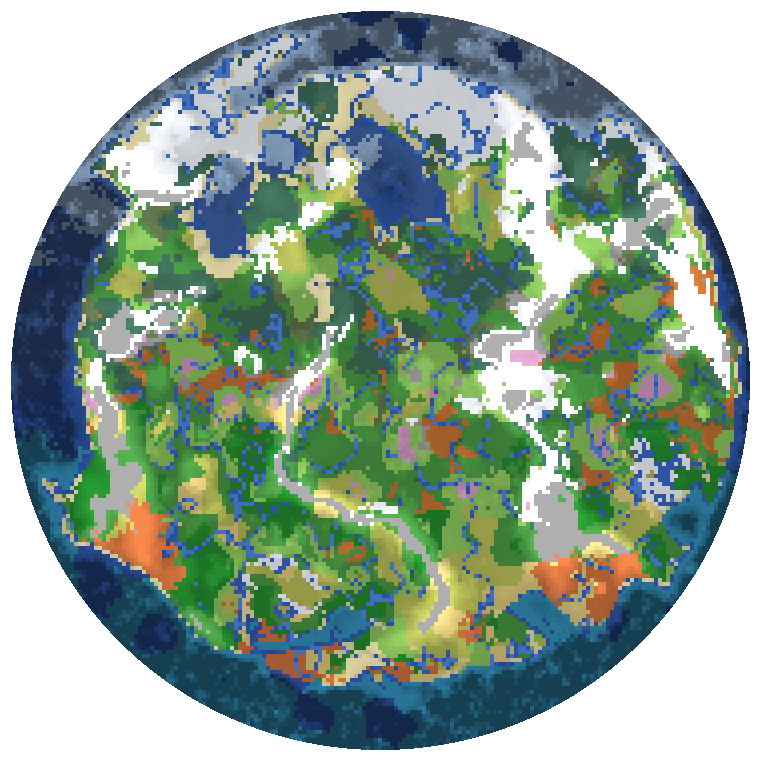
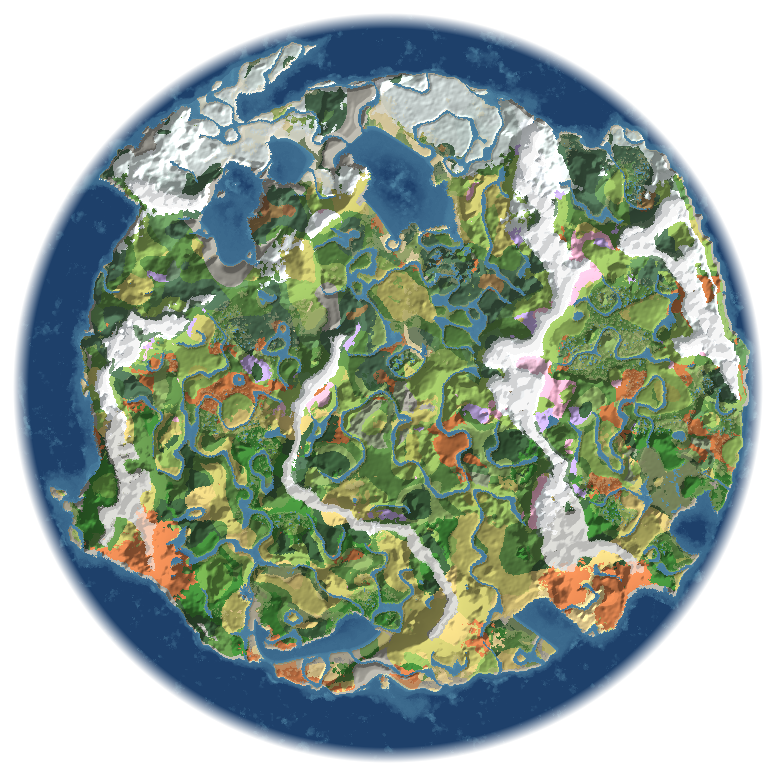
feat(site): render the disc map from a bench height and biome sample

diff --git a/site/src/components/Medias.tsx b/site/src/components/Medias.tsx
@@ -1,7 +1,7 @@
 import { useRef, useState } from 'react'
 import { AnimatePresence, motion } from 'motion/react'
 import type { Media, Zoom } from '../data/lieux'
-import { CARTE_SRC, lireCarte } from './Carte'
+import { CARTE_SRC, R_RIVAGE, lireCarte } from './Carte'
 
 const LOUPE = 2.6 // magnification of the lens
 const LENTILLE = 200 // lens size in CSS pixels, kept in step with .lentille
@@ -230,7 +230,7 @@ function CarteMesure() {
       <div className="carte-mesure" onPointerMove={bouger} onPointerDown={bouger}>
         <img src={CARTE_SRC} alt="Carte des biomes du disque" draggable={false} />
         <svg viewBox="0 0 100 100" aria-hidden="true">
-          <circle cx="50" cy="50" r={(355 / 760) * 100} fill="none" stroke="var(--lanterne)" strokeWidth="0.3" strokeDasharray="1 1" />
+          <circle cx="50" cy="50" r={R_RIVAGE * 100} fill="none" stroke="var(--lanterne)" strokeWidth="0.3" strokeDasharray="1 1" />
           {l && <line x1="50" y1="50" x2={l.fx * 100} y2={l.fy * 100} stroke="var(--lanterne)" strokeWidth="0.5" />}
           <circle cx="50" cy="50" r="0.8" fill="var(--lanterne)" />
         </svg>

diff --git a/site/src/components/Carte.tsx b/site/src/components/Carte.tsx
@@ -5,7 +5,9 @@ import { Brume } from './Brume'
 import { Pixel } from './Pixel'
 
 const BORD = 6000 // blocks from the centre to the edge
-const R_IMG = 374 / 760 // edge radius as a fraction of the map image
+// The map image spans -6200..6200 blocks at one pixel per 16 blocks (775 px).
+export const R_IMG = 6000 / 12400 // edge radius as a fraction of the map image
+export const R_RIVAGE = 5700 / 12400 // open sea starts here
 
 export const CARTE_SRC = `${import.meta.env.BASE_URL}captures/carte-disque.png`
 
@@ -54,7 +56,7 @@ export function Carte({ intro, actif, onChoisir, reduit }: Props) {
       b.disc = {
         x: ((r.left - s.left + r.width / 2) / s.width) * b.cols,
         y: ((r.top - s.top + r.height / 2) / s.height) * b.rows,
-        r: (r.width / 2 / s.width) * b.cols * (369 / 380),
+        r: (r.width / s.width) * b.cols * R_IMG,
       }
       b.holes = LIEUX.map((l) => ({
         x: ((r.left - s.left + l.x * r.width) / s.width) * b.cols,

diff --git a/site/src/data/lieux.ts b/site/src/data/lieux.ts
@@ -65,7 +65,7 @@ export const LIEUX: Lieu[] = [
     ],
   },
   {
-    id: 'lac', touche: 2, nom: 'Le lac', theme: 'Le rendu', x: 0.52, y: 0.27,
+    id: 'lac', touche: 2, nom: 'Le lac', theme: 'Le rendu', x: 0.51, y: 0.25,
     intro: "Brumaire, un shader écrit de zéro pour Compline et allumé par défaut. Il garde les pixels du jeu nets et donne au monde sa lumière.",
     fond: c('bru-couchant.jpg'),
     fonctions: [

diff --git a/site/scripts/carte.py b/site/scripts/carte.py
@@ -16,31 +16,46 @@ from PIL import Image
 EDGE = 6000  # blocks from the centre to the edge of the world
 SEA = 63
 
+# Exact colours for biomes whose names would mislead the keyword match below.
+EXACTS = {
+    'mangrove_swamp': (78, 104, 64), 'cherry_grove': (214, 160, 182), 'wisteria_grove': (170, 150, 200),
+    'magnolia_woodland': (206, 168, 186), 'frozen_pine_taiga': (196, 208, 204), 'snowy_taiga': (190, 204, 200),
+    'snowy_beach': (226, 228, 222), 'stony_shore': (150, 148, 140), 'rocky_shore': (150, 148, 140),
+    'windswept_hills': (128, 140, 112), 'windswept_gravelly_hills': (144, 142, 134), 'windswept_forest': (84, 118, 76),
+    'tide_pools': (170, 176, 150), 'ant_gardens': (150, 160, 86), 'dripstone_caves': (146, 132, 112),
+    'pine_slopes': (96, 120, 96), 'towering_cliffs': (140, 138, 128), 'dry_bushland': (190, 172, 106),
+    'bamboo_forest': (98, 146, 66), 'willow_forest': (92, 132, 82), 'redwoods': (128, 92, 62),
+    'sparse_redwoods': (138, 112, 72), 'orchard': (150, 156, 80),
+}
+
 # Colours by biome family, matched on words of the biome id, first match wins.
 FAMILLES = [
-    (('frozen_peaks', 'jagged_peaks', 'snowy_slopes', 'ice_spikes', 'frozen', 'glacier', 'icy'), (226, 232, 236)),
-    (('snowy', 'tundra', 'grove', 'alpine'), (206, 216, 214)),
+    (('frozen_peaks', 'jagged_peaks', 'snowy_slopes', 'ice_spikes', 'frozen', 'glacier', 'icy'), (230, 236, 240)),
+    (('snowy', 'tundra', 'alpine', 'grove'), (206, 216, 214)),
     (('stony_peaks', 'stony', 'rocky', 'cliff', 'mountain', 'peak', 'crag', 'slope'), (146, 146, 138)),
-    (('badlands', 'mesa', 'red_rock', 'outback'), (196, 116, 70)),
+    (('badlands', 'mesa', 'red_rock', 'outback'), (188, 112, 68)),
     (('desert', 'dune', 'sand', 'arid', 'dry'), (222, 199, 140)),
-    (('savanna', 'steppe', 'shrub', 'prairie', 'grassland', 'scrub'), (176, 170, 96)),
-    (('swamp', 'marsh', 'bog', 'fen', 'mangrove', 'bayou', 'wetland'), (92, 112, 74)),
-    (('jungle', 'rainforest', 'tropic'), (64, 128, 52)),
-    (('cherry', 'blossom', 'magnolia'), (214, 160, 182)),
-    (('taiga', 'spruce', 'pine', 'boreal', 'conifer', 'larch', 'fir'), (72, 104, 78)),
-    (('maple', 'autumn', 'orchard', 'redwood'), (176, 108, 62)),
-    (('birch', 'aspen', 'silver'), (130, 158, 92)),
-    (('dark_forest', 'old_growth', 'deep', 'mystic', 'enchanted'), (58, 92, 58)),
-    (('forest', 'wood', 'grove', 'thicket'), (86, 128, 66)),
-    (('meadow', 'flower', 'field', 'plains', 'pasture', 'clover', 'lupin', 'poppy'), (134, 166, 86)),
+    (('savanna', 'steppe', 'shrub', 'prairie', 'grassland', 'scrub'), (170, 166, 94)),
+    (('swamp', 'marsh', 'bog', 'fen', 'bayou', 'wetland'), (88, 108, 72)),
+    (('jungle', 'rainforest', 'tropic'), (58, 120, 50)),
+    (('cherry', 'blossom'), (214, 160, 182)),
+    (('taiga', 'spruce', 'pine', 'boreal', 'conifer', 'larch', 'fir'), (70, 100, 76)),
+    (('maple', 'autumn'), (172, 104, 60)),
+    (('birch', 'aspen', 'silver'), (126, 154, 90)),
+    (('dark_forest', 'old_growth', 'deep', 'mystic', 'enchanted'), (56, 88, 56)),
+    (('forest', 'wood', 'thicket'), (84, 124, 64)),
+    (('meadow', 'flower', 'field', 'plains', 'pasture', 'clover', 'lupin', 'poppy'), (132, 162, 84)),
     (('beach', 'shore', 'coast', 'gravel'), (220, 206, 160)),
     (('mushroom', 'fungal'), (150, 120, 140)),
+    (('river', 'delta'), (104, 150, 168)),
 ]
 DEFAUT = (120, 150, 84)
 
 
 def couleur_biome(nom: str):
     court = nom.split(':', 1)[-1]
+    if court in EXACTS:
+        return EXACTS[court]
     for mots, c in FAMILLES:
         if any(m in court for m in mots):
             return c
@@ -59,12 +74,29 @@ def charger(dossier: str):
     return pas, n, [lignes[z] for z in zs]
 
 
+def lisser(H, n, rows):
+    """3x3 mean of the valid heights, used only for the hillshade so single-block noise does not speckle."""
+    L = [[0.0] * n for _ in range(rows)]
+    for j in range(rows):
+        for i in range(n):
+            t = c = 0
+            for dj in (-1, 0, 1):
+                for di in (-1, 0, 1):
+                    jj, ii = j + dj, i + di
+                    if 0 <= jj < rows and 0 <= ii < n and H[jj][ii] > -999:
+                        t += H[jj][ii]
+                        c += 1
+            L[j][i] = t / c if c else SEA
+    return L
+
+
 def main(dossier: str, sortie: str):
     pas, n, rows = charger(dossier)
     R = 6200
     H = [[r['h'][i] for i in range(n)] for r in rows]
     B = [[r['b'][i] for i in range(n)] for r in rows]
     h_rows = len(rows)
+    L = lisser(H, n, h_rows)
     img = Image.new('RGBA', (n, h_rows), (0, 0, 0, 0))
     px = img.load()
     for j in range(h_rows):
@@ -78,26 +110,22 @@ def main(dossier: str, sortie: str):
             if h <= -999:
                 continue
             if h < SEA - 1:
-                # Water: lighter near the shore, deep blue offshore.
-                prof = min(1.0, (SEA - h) / 40)
-                c = (int(108 - 70 * prof), int(158 - 88 * prof), int(170 - 62 * prof))
+                # Water: clear blue in rivers and shallows, deep blue offshore.
+                prof = min(1.0, (SEA - h) / 36) ** 0.8
+                c = (int(92 - 62 * prof), int(150 - 86 * prof), int(178 - 72 * prof))
             else:
                 c = couleur_biome(B[j][i] or '')
-                # Hillshade from the north-west.
-                hw = H[j][max(0, i - 1)] if H[j][max(0, i - 1)] > -999 else h
-                hn = H[max(0, j - 1)][i] if H[max(0, j - 1)][i] > -999 else h
-                he = H[j][min(n - 1, i + 1)] if H[j][min(n - 1, i + 1)] > -999 else h
-                hs = H[min(h_rows - 1, j + 1)][i] if H[min(h_rows - 1, j + 1)][i] > -999 else h
-                dx = (he - hw) / (2 * pas)
-                dz = (hs - hn) / (2 * pas)
-                ombre = max(-0.45, min(0.45, -(dx + dz) * 2.2))
+                # Hillshade from the north-west, on smoothed heights.
+                dx = (L[j][min(n - 1, i + 1)] - L[j][max(0, i - 1)]) / (2 * pas)
+                dz = (L[min(h_rows - 1, j + 1)][i] - L[max(0, j - 1)][i]) / (2 * pas)
+                ombre = max(-0.32, min(0.32, -(dx + dz) * 1.7))
                 alt = max(0.0, min(1.0, (h - SEA) / 160))
-                k = 1 + ombre - 0.08 + alt * 0.12
+                k = 1 + ombre - 0.06 + alt * 0.1
                 c = tuple(int(max(0, min(255, v * k))) for v in c)
                 if h > 205:  # snow on high summits
                     c = tuple(int(v * 0.4 + 240 * 0.6) for v in c)
                 if SEA - 1 <= h <= SEA + 1:
-                    c = tuple(int(v * 0.6 + w * 0.4) for v, w in zip(c, (222, 206, 160)))
+                    c = tuple(int(v * 0.7 + w * 0.3) for v, w in zip(c, (222, 206, 160)))
             # The last few hundred blocks fade into the mist of the edge.
             a = 255 if d < EDGE - 250 else int(255 * (EDGE - d) / 250)
             px[i, j] = (*c, a)
